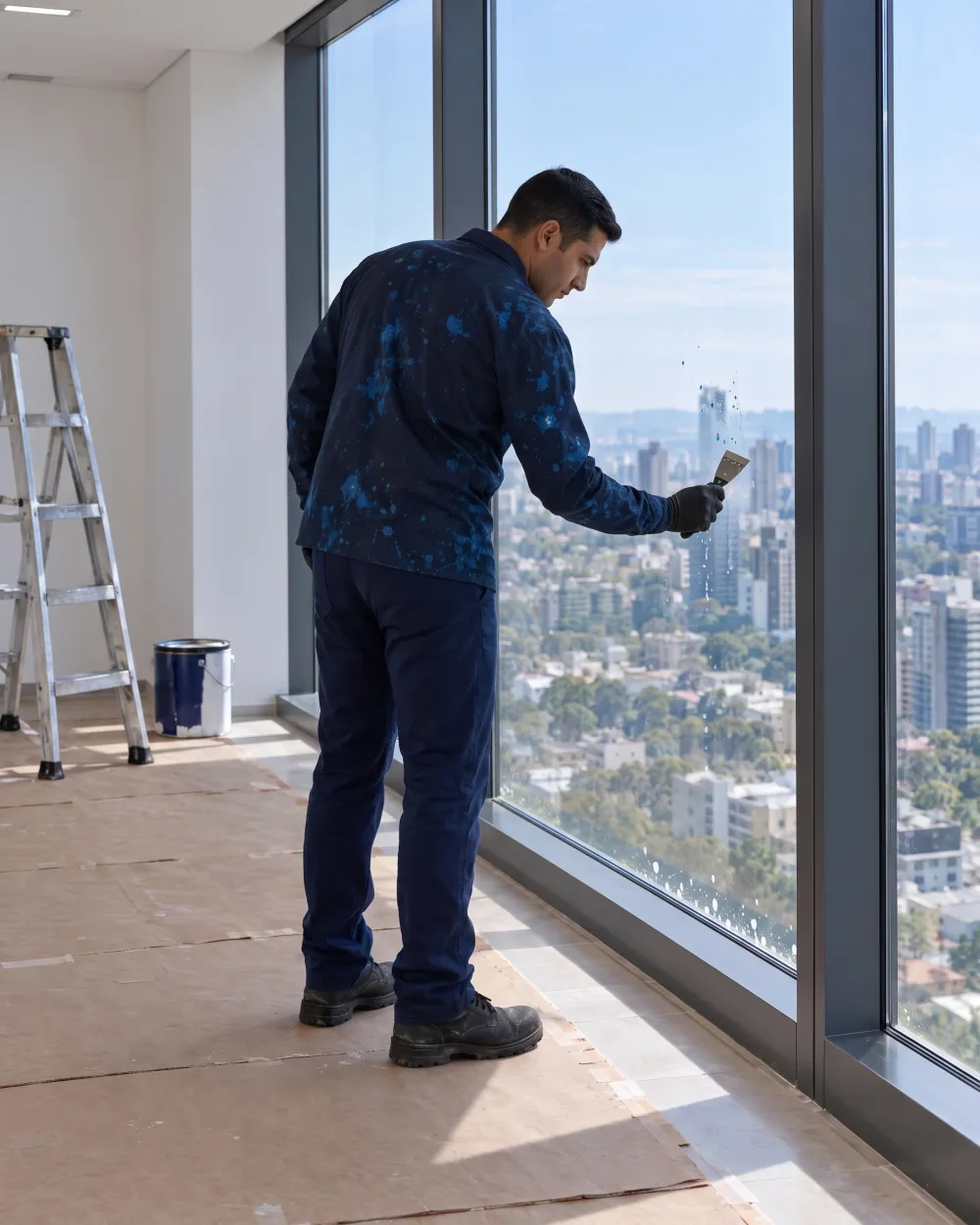
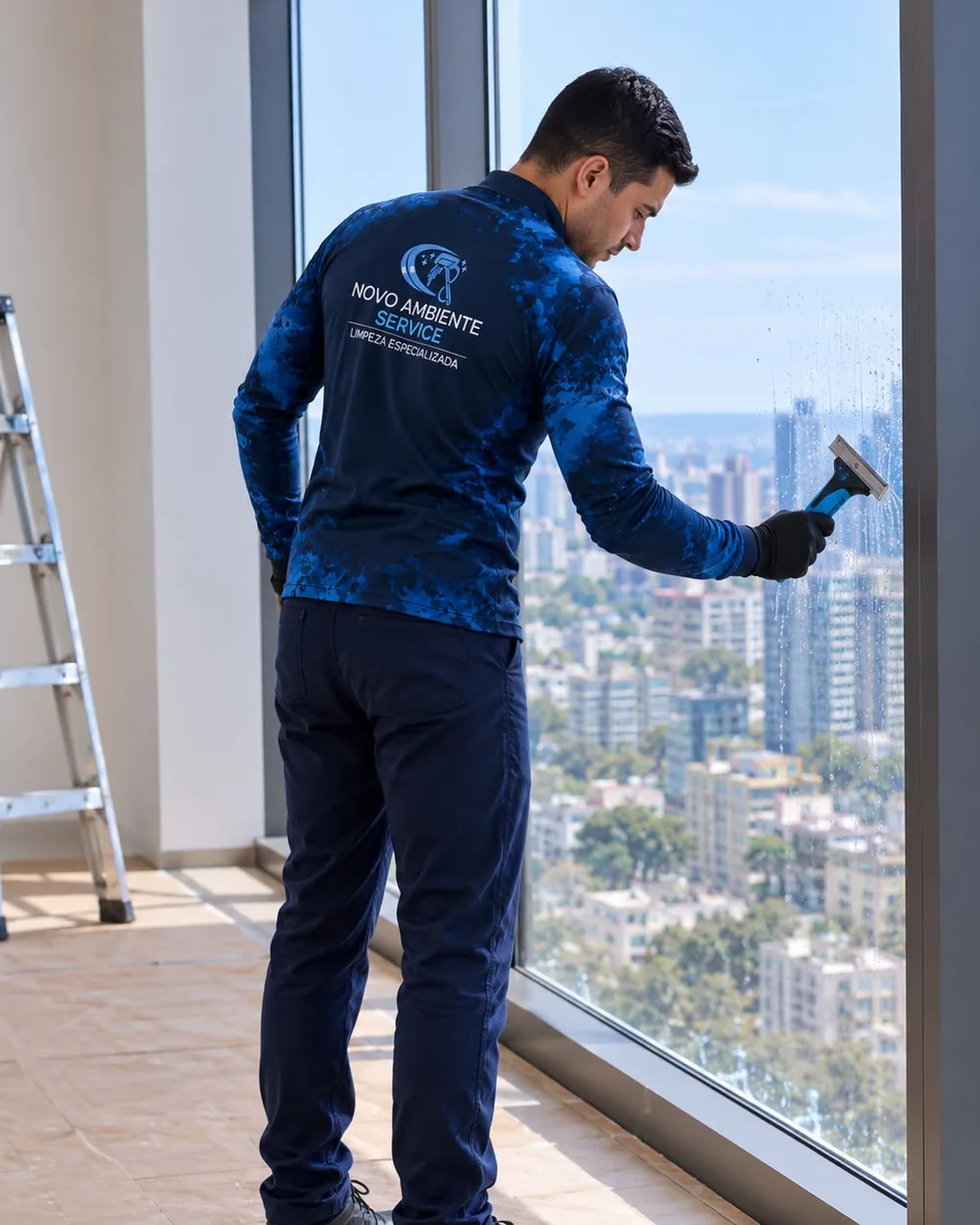
Novo Ambiente: retorno de 27/11 (menu no celular, recortes com a ferramenta, pos-obra nova)

diff --git a/public/novo-ambiente/site/limpeza-de-vidros/index.html b/public/novo-ambiente/site/limpeza-de-vidros/index.html
@@ -71,7 +71,18 @@
       <a href="../limpeza-de-vidros/" aria-current="page">Vidros</a><a href="../limpeza-de-fachada-acm/">Fachada</a><a href="../limpeza-de-placa-solar/">Placa solar</a><a href="../limpeza-de-piso/">Piso</a><a href="../contato/">Contato</a>
     </nav>
     <a class="botao botao-topo" href="https://wa.me/5541997799646?text=Ol%C3%A1!%20Vim%20pelo%20site%20da%20Novo%20Ambiente%20e%20quero%20um%20or%C3%A7amento." target="_blank" rel="noopener">Orçamento<svg aria-hidden="true"><use href="#i-seta"/></svg></a>
+    <button class="menu-botao" type="button" aria-expanded="false" aria-controls="menu-celular"><svg aria-hidden="true" viewBox="0 0 24 24"><path class="mb-1" d="M4 7h16"/><path class="mb-2" d="M4 12h16"/><path class="mb-3" d="M4 17h16"/></svg><span>Menu</span></button>
   </div>
+  <nav class="menu-celular" id="menu-celular" aria-label="Páginas do site" hidden>
+    <ul>
+      <li><a href="../">Início<svg aria-hidden="true"><use href="#i-seta"/></svg></a></li>
+      <li><a href="../limpeza-de-vidros/" aria-current="page">Limpeza de vidros<svg aria-hidden="true"><use href="#i-seta"/></svg></a></li>
+      <li><a href="../limpeza-de-fachada-acm/">Limpeza de fachada<svg aria-hidden="true"><use href="#i-seta"/></svg></a></li>
+      <li><a href="../limpeza-de-placa-solar/">Limpeza de placa solar<svg aria-hidden="true"><use href="#i-seta"/></svg></a></li>
+      <li><a href="../limpeza-de-piso/">Limpeza de piso<svg aria-hidden="true"><use href="#i-seta"/></svg></a></li>
+      <li><a href="../contato/">Contato<svg aria-hidden="true"><use href="#i-seta"/></svg></a></li>
+    </ul>
+  </nav>
 </header>
 <main id="conteudo">
 <section class="entrada" aria-labelledby="t-entrada" style="--pos: 45% 35%">
@@ -132,7 +143,7 @@
         </div>
       </li>
       <li class="b-cartao b-servico" style="--i: 1">
-        <figure><img src="../img/servico-fachada.webp" alt="Técnico de uniforme na calçada limpando com haste longa os vidros de um prédio comercial" width="1000" height="1250" loading="lazy" decoding="async" style="object-position: 50% 70%"></figure>
+        <figure><img src="../img/servico-fachada.webp" alt="Técnico de uniforme na calçada limpando com haste longa os vidros de um prédio comercial" width="1000" height="1250" loading="lazy" decoding="async" style="object-position: 50% 0%"></figure>
         <div class="b-servico-texto">
           <h3>Fachadas de vidro</h3>
           <p>Vidros de prédios, edifícios comerciais e condomínios, com limpeza interna e externa. Na pele de vidro, painel por painel, sem marca de rodo.</p>
@@ -141,7 +152,7 @@
         </div>
       </li>
       <li class="b-cartao b-servico" style="--i: 2">
-        <figure><img src="../img/servico-vitrine.webp" alt="Técnico de uniforme numa escada limpando o vidro alto da fachada de uma loja" width="1000" height="1250" loading="lazy" decoding="async" style="object-position: 50% 50%"></figure>
+        <figure><img src="../img/servico-vitrine.webp" alt="Técnico de uniforme numa escada limpando o vidro alto da fachada de uma loja" width="1000" height="1250" loading="lazy" decoding="async" style="object-position: 50% 0%"></figure>
         <div class="b-servico-texto">
           <h3>Vitrines, lojas, clínicas e escritórios</h3>
           <p>Vitrine sem marca de dedo e porta de vidro limpa, no dia e no horário que não atrapalham o atendimento.</p>
@@ -150,7 +161,7 @@
         </div>
       </li>
       <li class="b-cartao b-servico" style="--i: 3">
-        <figure><img src="../img/servico-sacada.webp" alt="Técnico de uniforme limpando com haste o vidro alto de uma sala com pé-direito alto" width="1000" height="1250" loading="lazy" decoding="async" style="object-position: 50% 50%"></figure>
+        <figure><img src="../img/servico-sacada.webp" alt="Técnico de uniforme limpando com haste o vidro alto de uma sala com pé-direito alto" width="1000" height="1250" loading="lazy" decoding="async" style="object-position: 50% 0%"></figure>
         <div class="b-servico-texto">
           <h3>Casas, apartamentos e sacadas</h3>
           <p>Janela alta, vidro de sacada e guarda-corpo transparentes de novo, sem ninguém da família subir em escada.</p>
@@ -159,7 +170,7 @@
         </div>
       </li>
       <li class="b-cartao b-servico" style="--i: 4">
-        <figure><img src="../img/servico-posobra.webp" alt="Técnico com raspador tirando respingos de tinta do vidro de uma sala comercial recém-terminada" width="1000" height="1250" loading="lazy" decoding="async" style="object-position: 55% 40%"></figure>
+        <figure><img src="../img/servico-posobra.webp" alt="Técnico de uniforme com raspador tirando resto de obra do vidro de uma sala com vista para a cidade" width="1000" height="1250" loading="lazy" decoding="async" style="object-position: 50% 30%"></figure>
         <div class="b-servico-texto">
           <h3>Pós-obra de vidros</h3>
           <p>Resto de tinta, cimento e poeira saem do vidro novo antes da entrega, com cuidado para não riscar.</p>

diff --git a/public/novo-ambiente/site/index.html b/public/novo-ambiente/site/index.html
@@ -69,7 +69,18 @@
       <a href="limpeza-de-vidros/">Vidros</a><a href="limpeza-de-fachada-acm/">Fachada</a><a href="limpeza-de-placa-solar/">Placa solar</a><a href="limpeza-de-piso/">Piso</a><a href="contato/">Contato</a>
     </nav>
     <a class="botao botao-topo" href="https://wa.me/5541997799646?text=Ol%C3%A1!%20Vim%20pelo%20site%20da%20Novo%20Ambiente%20e%20quero%20um%20or%C3%A7amento." target="_blank" rel="noopener">Orçamento<svg aria-hidden="true"><use href="#i-seta"/></svg></a>
+    <button class="menu-botao" type="button" aria-expanded="false" aria-controls="menu-celular"><svg aria-hidden="true" viewBox="0 0 24 24"><path class="mb-1" d="M4 7h16"/><path class="mb-2" d="M4 12h16"/><path class="mb-3" d="M4 17h16"/></svg><span>Menu</span></button>
   </div>
+  <nav class="menu-celular" id="menu-celular" aria-label="Páginas do site" hidden>
+    <ul>
+      <li><a href="./" aria-current="page">Início<svg aria-hidden="true"><use href="#i-seta"/></svg></a></li>
+      <li><a href="limpeza-de-vidros/">Limpeza de vidros<svg aria-hidden="true"><use href="#i-seta"/></svg></a></li>
+      <li><a href="limpeza-de-fachada-acm/">Limpeza de fachada<svg aria-hidden="true"><use href="#i-seta"/></svg></a></li>
+      <li><a href="limpeza-de-placa-solar/">Limpeza de placa solar<svg aria-hidden="true"><use href="#i-seta"/></svg></a></li>
+      <li><a href="limpeza-de-piso/">Limpeza de piso<svg aria-hidden="true"><use href="#i-seta"/></svg></a></li>
+      <li><a href="contato/">Contato<svg aria-hidden="true"><use href="#i-seta"/></svg></a></li>
+    </ul>
+  </nav>
 </header>
 <main id="conteudo">
 <section class="entrada" aria-labelledby="t-entrada" style="--pos: 45% 30%">
@@ -157,7 +168,7 @@
         </div>
       </li>
       <li class="b-cartao b-servico" style="--i: 1">
-        <figure><img src="img/servico-fachada.webp" alt="Técnico de uniforme na calçada limpando com haste longa os vidros de um prédio comercial" width="1000" height="1250" loading="lazy" decoding="async" style="object-position: 50% 70%"></figure>
+        <figure><img src="img/servico-fachada.webp" alt="Técnico de uniforme na calçada limpando com haste longa os vidros de um prédio comercial" width="1000" height="1250" loading="lazy" decoding="async" style="object-position: 50% 0%"></figure>
         <div class="b-servico-texto">
           <h3>Fachadas de vidro</h3>
           <p>Vidros de prédios, edifícios comerciais e condomínios, com limpeza interna e externa, painel a painel.</p>
@@ -166,7 +177,7 @@
         </div>
       </li>
       <li class="b-cartao b-servico" style="--i: 2">
-        <figure><img src="img/servico-vitrine.webp" alt="Técnico de uniforme numa escada limpando o vidro alto da fachada de uma loja" width="1000" height="1250" loading="lazy" decoding="async" style="object-position: 50% 50%"></figure>
+        <figure><img src="img/servico-vitrine.webp" alt="Técnico de uniforme numa escada limpando o vidro alto da fachada de uma loja" width="1000" height="1250" loading="lazy" decoding="async" style="object-position: 50% 0%"></figure>
         <div class="b-servico-texto">
           <h3>Vitrines, lojas, clínicas e escritórios</h3>
           <p>Vitrine sem marca de dedo, no dia e no horário que não atrapalham o atendimento.</p>
@@ -175,7 +186,7 @@
         </div>
       </li>
       <li class="b-cartao b-servico" style="--i: 3">
-        <figure><img src="img/servico-sacada.webp" alt="Técnico de uniforme limpando com haste o vidro alto de uma sala com pé-direito alto" width="1000" height="1250" loading="lazy" decoding="async" style="object-position: 50% 50%"></figure>
+        <figure><img src="img/servico-sacada.webp" alt="Técnico de uniforme limpando com haste o vidro alto de uma sala com pé-direito alto" width="1000" height="1250" loading="lazy" decoding="async" style="object-position: 50% 0%"></figure>
         <div class="b-servico-texto">
           <h3>Casas e sacadas</h3>
           <p>Vidro alto e de sacada transparente de novo, sem ninguém da família subir em escada.</p>
@@ -184,7 +195,7 @@
         </div>
       </li>
       <li class="b-cartao b-servico" style="--i: 4">
-        <figure><img src="img/servico-posobra.webp" alt="Técnico com raspador tirando respingos de tinta do vidro de uma sala comercial recém-terminada" width="1000" height="1250" loading="lazy" decoding="async" style="object-position: 55% 40%"></figure>
+        <figure><img src="img/servico-posobra.webp" alt="Técnico de uniforme com raspador tirando resto de obra do vidro de uma sala com vista para a cidade" width="1000" height="1250" loading="lazy" decoding="async" style="object-position: 50% 30%"></figure>
         <div class="b-servico-texto">
           <h3>Pós-obra de vidros</h3>
           <p>Resto de tinta, cimento e poeira de obra saem do vidro novo, com cuidado para não riscar.</p>

diff --git a/public/novo-ambiente/site/site/servico.css b/public/novo-ambiente/site/site/servico.css
@@ -206,3 +206,46 @@
 .eb .b-cartao .b-bolinha:not(.b-bolinha-grande) { display: block; width: fit-content; height: auto; margin-bottom: 0; border-radius: 0; background: none; box-shadow: none; color: var(--destaque); }
 .eb .b-cartao .b-bolinha:not(.b-bolinha-grande) .ico { width: 2.75rem; height: 2.75rem; }
 .sv .b-tambem .b-cartao-link .b-bolinha .ico { width: 2.25rem; height: 2.25rem; }
+
+/* 27/11, pedido do Lucas: nos cartões a ferramenta ficava fora do recorte (4:3 numa foto em pé mostrava 60% dela).
+   Quadrado mostra 80% da foto, e o object-position de cada uma (paginas.mjs e conteudo.mjs) puxa pra onde está o rodo,
+   a haste ou o raspador. O cartão grande do computador continua com a altura do texto */
+.b-servico img:not(.largo) { aspect-ratio: 1; }
+@media (min-width: 62rem) { .b-servico-grande img:not(.largo) { aspect-ratio: auto; } }
+
+/* ---------- 27/11, pedido dela: menu no celular ----------
+   Abaixo de 62rem os links do topo somem; no lugar entra o botão "Menu", que abre a lista das páginas logo
+   abaixo do topo. Abaixo de 48rem o "Orçamento" do topo sai: lá a barra fixa do WhatsApp já faz esse papel e
+   não cabem logo, Orçamento e Menu lado a lado. Sem script o botão não aparece (o rodapé tem os links) */
+.menu-botao, .topo .menu-celular { display: none; } /* .topo nav vira flex no computador: aqui precisa ganhar dele */
+@media (max-width: 61.99rem) {
+  .js .menu-botao { display: inline-flex; align-items: center; gap: .5rem; min-height: 2.75rem; padding: .5rem 1rem; border: 0; border-radius: 8px; background: rgba(8, 25, 42, .55); color: inherit; box-shadow: inset 0 0 0 1px currentColor; font: 500 .8125rem/1 var(--sans); letter-spacing: .05em; text-transform: uppercase; cursor: pointer; }
+  .menu-botao svg { width: 1.25rem; height: 1.25rem; fill: none; stroke: currentColor; stroke-width: 1.6; stroke-linecap: round; overflow: visible; }
+  .menu-botao path { transition: transform .3s var(--sai), opacity .2s var(--sai); transform-origin: 12px 12px; }
+  .menu-botao[aria-expanded="true"] .mb-1 { transform: translateY(5px) rotate(45deg); }
+  .menu-botao[aria-expanded="true"] .mb-2 { opacity: 0; }
+  .menu-botao[aria-expanded="true"] .mb-3 { transform: translateY(-5px) rotate(-45deg); }
+  .topo .wrap { gap: .5rem; }
+  .topo .botao-topo { margin-left: auto; }
+  .topo.solido .menu-botao, .topo.menu-aberto .menu-botao { background: transparent; box-shadow: inset 0 0 0 1px var(--marinho); }
+
+  .js .topo .menu-celular:not([hidden]) { display: block; position: absolute; inset: 100% 0 auto; max-height: calc(100svh - 4.75rem); overflow-y: auto; background: var(--off); color: var(--marinho);
+    box-shadow: 0 0 0 100vmax rgba(2, 11, 20, .45); clip-path: inset(0 0 -100vmax 0); animation: menu-desce .35s var(--sai); }
+  .menu-celular ul { width: min(100% - 2.5rem, 40rem); margin-inline: auto; padding: .5rem 0 1.25rem; list-style: none; }
+  .menu-celular li + li { border-top: 1px solid var(--linha); }
+  .menu-celular a { display: flex; align-items: center; justify-content: space-between; gap: 1rem; min-height: 3.5rem; padding-block: 0; background: none; font: 400 1.375rem/1.2 var(--serif); letter-spacing: -.005em; text-decoration: none; }
+  .menu-celular a svg { flex: none; width: 1rem; height: 1rem; color: var(--botao); }
+  .menu-celular a[aria-current="page"] { color: var(--botao); }
+  .menu-celular a[aria-current="page"]::after { content: "você está aqui"; margin-left: auto; font: 500 .75rem/1 var(--sans); letter-spacing: .05em; text-transform: uppercase; color: var(--texto-2); }
+  .menu-celular a[aria-current="page"] svg { display: none; }
+
+  /* menu aberto: o topo fica sólido e a logo já no tamanho pequeno, mesmo no alto da página */
+  .topo.menu-aberto { background: var(--off); color: var(--marinho); box-shadow: 0 1px 0 var(--linha); }
+  .topo.menu-aberto .logo-clara { opacity: 0; }
+  .topo.menu-aberto .logo-escura { opacity: 1; }
+  .js .topo.menu-aberto .marca-logo { height: var(--logo-menu); transform: none !important; }
+  .topo.menu-aberto .botao-topo:not(:hover) { background: var(--marinho); color: var(--off); box-shadow: none; }
+}
+@media (max-width: 47.99rem) { .topo .botao-topo { display: none; } .js .menu-botao { margin-left: auto; } }
+@keyframes menu-desce { from { opacity: 0; transform: translateY(-.5rem); } }
+@media (prefers-reduced-motion: reduce) { .menu-celular { animation: none !important; } .menu-botao path { transition: none; } }

diff --git a/public/novo-ambiente/site/site.css b/public/novo-ambiente/site/site.css
@@ -761,3 +761,34 @@ linear-gradient(0deg, rgba(8, 25, 42, .95) 0%, rgba(8, 25, 42, .78) 40%, rgba(8,
 .eb .b-cartao .b-bolinha:not(.b-bolinha-grande) { display: block; width: fit-content; height: auto; margin-bottom: 0; border-radius: 0; background: none; box-shadow: none; color: var(--destaque); }
 .eb .b-cartao .b-bolinha:not(.b-bolinha-grande) .ico { width: 2.75rem; height: 2.75rem; }
 .sv .b-tambem .b-cartao-link .b-bolinha .ico { width: 2.25rem; height: 2.25rem; }
+.b-servico img:not(.largo) { aspect-ratio: 1; }
+@media (min-width: 62rem) { .b-servico-grande img:not(.largo) { aspect-ratio: auto; } }
+.menu-botao, .topo .menu-celular { display: none; } 
+@media (max-width: 61.99rem) {
+.js .menu-botao { display: inline-flex; align-items: center; gap: .5rem; min-height: 2.75rem; padding: .5rem 1rem; border: 0; border-radius: 8px; background: rgba(8, 25, 42, .55); color: inherit; box-shadow: inset 0 0 0 1px currentColor; font: 500 .8125rem/1 var(--sans); letter-spacing: .05em; text-transform: uppercase; cursor: pointer; }
+.menu-botao svg { width: 1.25rem; height: 1.25rem; fill: none; stroke: currentColor; stroke-width: 1.6; stroke-linecap: round; overflow: visible; }
+.menu-botao path { transition: transform .3s var(--sai), opacity .2s var(--sai); transform-origin: 12px 12px; }
+.menu-botao[aria-expanded="true"] .mb-1 { transform: translateY(5px) rotate(45deg); }
+.menu-botao[aria-expanded="true"] .mb-2 { opacity: 0; }
+.menu-botao[aria-expanded="true"] .mb-3 { transform: translateY(-5px) rotate(-45deg); }
+.topo .wrap { gap: .5rem; }
+.topo .botao-topo { margin-left: auto; }
+.topo.solido .menu-botao, .topo.menu-aberto .menu-botao { background: transparent; box-shadow: inset 0 0 0 1px var(--marinho); }
+.js .topo .menu-celular:not([hidden]) { display: block; position: absolute; inset: 100% 0 auto; max-height: calc(100svh - 4.75rem); overflow-y: auto; background: var(--off); color: var(--marinho);
+box-shadow: 0 0 0 100vmax rgba(2, 11, 20, .45); clip-path: inset(0 0 -100vmax 0); animation: menu-desce .35s var(--sai); }
+.menu-celular ul { width: min(100% - 2.5rem, 40rem); margin-inline: auto; padding: .5rem 0 1.25rem; list-style: none; }
+.menu-celular li + li { border-top: 1px solid var(--linha); }
+.menu-celular a { display: flex; align-items: center; justify-content: space-between; gap: 1rem; min-height: 3.5rem; padding-block: 0; background: none; font: 400 1.375rem/1.2 var(--serif); letter-spacing: -.005em; text-decoration: none; }
+.menu-celular a svg { flex: none; width: 1rem; height: 1rem; color: var(--botao); }
+.menu-celular a[aria-current="page"] { color: var(--botao); }
+.menu-celular a[aria-current="page"]::after { content: "você está aqui"; margin-left: auto; font: 500 .75rem/1 var(--sans); letter-spacing: .05em; text-transform: uppercase; color: var(--texto-2); }
+.menu-celular a[aria-current="page"] svg { display: none; }
+.topo.menu-aberto { background: var(--off); color: var(--marinho); box-shadow: 0 1px 0 var(--linha); }
+.topo.menu-aberto .logo-clara { opacity: 0; }
+.topo.menu-aberto .logo-escura { opacity: 1; }
+.js .topo.menu-aberto .marca-logo { height: var(--logo-menu); transform: none !important; }
+.topo.menu-aberto .botao-topo:not(:hover) { background: var(--marinho); color: var(--off); box-shadow: none; }
+}
+@media (max-width: 47.99rem) { .topo .botao-topo { display: none; } .js .menu-botao { margin-left: auto; } }
+@keyframes menu-desce { from { opacity: 0; transform: translateY(-.5rem); } }
+@media (prefers-reduced-motion: reduce) { .menu-celular { animation: none !important; } .menu-botao path { transition: none; } }

diff --git a/public/novo-ambiente/site/limpeza-de-fachada-acm/index.html b/public/novo-ambiente/site/limpeza-de-fachada-acm/index.html
@@ -71,7 +71,18 @@
       <a href="../limpeza-de-vidros/">Vidros</a><a href="../limpeza-de-fachada-acm/" aria-current="page">Fachada</a><a href="../limpeza-de-placa-solar/">Placa solar</a><a href="../limpeza-de-piso/">Piso</a><a href="../contato/">Contato</a>
     </nav>
     <a class="botao botao-topo" href="https://wa.me/5541997799646?text=Ol%C3%A1!%20Vim%20pelo%20site%20da%20Novo%20Ambiente%20e%20quero%20um%20or%C3%A7amento." target="_blank" rel="noopener">Orçamento<svg aria-hidden="true"><use href="#i-seta"/></svg></a>
+    <button class="menu-botao" type="button" aria-expanded="false" aria-controls="menu-celular"><svg aria-hidden="true" viewBox="0 0 24 24"><path class="mb-1" d="M4 7h16"/><path class="mb-2" d="M4 12h16"/><path class="mb-3" d="M4 17h16"/></svg><span>Menu</span></button>
   </div>
+  <nav class="menu-celular" id="menu-celular" aria-label="Páginas do site" hidden>
+    <ul>
+      <li><a href="../">Início<svg aria-hidden="true"><use href="#i-seta"/></svg></a></li>
+      <li><a href="../limpeza-de-vidros/">Limpeza de vidros<svg aria-hidden="true"><use href="#i-seta"/></svg></a></li>
+      <li><a href="../limpeza-de-fachada-acm/" aria-current="page">Limpeza de fachada<svg aria-hidden="true"><use href="#i-seta"/></svg></a></li>
+      <li><a href="../limpeza-de-placa-solar/">Limpeza de placa solar<svg aria-hidden="true"><use href="#i-seta"/></svg></a></li>
+      <li><a href="../limpeza-de-piso/">Limpeza de piso<svg aria-hidden="true"><use href="#i-seta"/></svg></a></li>
+      <li><a href="../contato/">Contato<svg aria-hidden="true"><use href="#i-seta"/></svg></a></li>
+    </ul>
+  </nav>
 </header>
 <main id="conteudo">
 <section class="entrada" aria-labelledby="t-entrada" style="--pos: 50% 40%">
@@ -128,7 +139,7 @@
       <li class="b-cartao" style="--i: 3"><span class="b-bolinha"><svg class="ico" aria-hidden="true"><use href="#i-pedra"/></svg></span><h3>Pedra e granito</h3><p>Revestimento de pedra de fachada e de entrada de prédio.</p></li>
     </ul>
     <div class="b-cartao b-servico b-servico-grande sv-completa">
-      <figure><img src="../img/servico-fachada-casa.webp" alt="Técnico de uniforme lavando com haste e jato a fachada de uma casa, ao lado do portão da garagem" width="1000" height="1250" loading="lazy" decoding="async" style="object-position: 50% 45%"></figure>
+      <figure><img src="../img/servico-fachada-casa.webp" alt="Técnico de uniforme lavando com haste e jato a fachada de uma casa, ao lado do portão da garagem" width="1000" height="1250" loading="lazy" decoding="async" style="object-position: 50% 30%"></figure>
       <div class="b-servico-texto">
         <h3>A fachada inteira, não só a parede</h3>
         <p>Quando é preciso, lavamos a fachada completa: além do revestimento, o muro, a grade, o portão, os rufos, as calhas e o telhado. A casa ou o prédio fica limpo por inteiro, e não só a parte de alvenaria.</p>

diff --git a/public/novo-ambiente/site/limpeza-de-piso/index.html b/public/novo-ambiente/site/limpeza-de-piso/index.html
@@ -71,7 +71,18 @@
       <a href="../limpeza-de-vidros/">Vidros</a><a href="../limpeza-de-fachada-acm/">Fachada</a><a href="../limpeza-de-placa-solar/">Placa solar</a><a href="../limpeza-de-piso/" aria-current="page">Piso</a><a href="../contato/">Contato</a>
     </nav>
     <a class="botao botao-topo" href="https://wa.me/5541997799646?text=Ol%C3%A1!%20Vim%20pelo%20site%20da%20Novo%20Ambiente%20e%20quero%20um%20or%C3%A7amento." target="_blank" rel="noopener">Orçamento<svg aria-hidden="true"><use href="#i-seta"/></svg></a>
+    <button class="menu-botao" type="button" aria-expanded="false" aria-controls="menu-celular"><svg aria-hidden="true" viewBox="0 0 24 24"><path class="mb-1" d="M4 7h16"/><path class="mb-2" d="M4 12h16"/><path class="mb-3" d="M4 17h16"/></svg><span>Menu</span></button>
   </div>
+  <nav class="menu-celular" id="menu-celular" aria-label="Páginas do site" hidden>
+    <ul>
+      <li><a href="../">Início<svg aria-hidden="true"><use href="#i-seta"/></svg></a></li>
+      <li><a href="../limpeza-de-vidros/">Limpeza de vidros<svg aria-hidden="true"><use href="#i-seta"/></svg></a></li>
+      <li><a href="../limpeza-de-fachada-acm/">Limpeza de fachada<svg aria-hidden="true"><use href="#i-seta"/></svg></a></li>
+      <li><a href="../limpeza-de-placa-solar/">Limpeza de placa solar<svg aria-hidden="true"><use href="#i-seta"/></svg></a></li>
+      <li><a href="../limpeza-de-piso/" aria-current="page">Limpeza de piso<svg aria-hidden="true"><use href="#i-seta"/></svg></a></li>
+      <li><a href="../contato/">Contato<svg aria-hidden="true"><use href="#i-seta"/></svg></a></li>
+    </ul>
+  </nav>
 </header>
 <main id="conteudo">
 <section class="entrada" aria-labelledby="t-entrada" style="--pos: 50% 50%">

diff --git a/public/novo-ambiente/site/limpeza-de-placa-solar/index.html b/public/novo-ambiente/site/limpeza-de-placa-solar/index.html
@@ -71,7 +71,18 @@
       <a href="../limpeza-de-vidros/">Vidros</a><a href="../limpeza-de-fachada-acm/">Fachada</a><a href="../limpeza-de-placa-solar/" aria-current="page">Placa solar</a><a href="../limpeza-de-piso/">Piso</a><a href="../contato/">Contato</a>
     </nav>
     <a class="botao botao-topo" href="https://wa.me/5541997799646?text=Ol%C3%A1!%20Vim%20pelo%20site%20da%20Novo%20Ambiente%20e%20quero%20um%20or%C3%A7amento." target="_blank" rel="noopener">Orçamento<svg aria-hidden="true"><use href="#i-seta"/></svg></a>
+    <button class="menu-botao" type="button" aria-expanded="false" aria-controls="menu-celular"><svg aria-hidden="true" viewBox="0 0 24 24"><path class="mb-1" d="M4 7h16"/><path class="mb-2" d="M4 12h16"/><path class="mb-3" d="M4 17h16"/></svg><span>Menu</span></button>
   </div>
+  <nav class="menu-celular" id="menu-celular" aria-label="Páginas do site" hidden>
+    <ul>
+      <li><a href="../">Início<svg aria-hidden="true"><use href="#i-seta"/></svg></a></li>
+      <li><a href="../limpeza-de-vidros/">Limpeza de vidros<svg aria-hidden="true"><use href="#i-seta"/></svg></a></li>
+      <li><a href="../limpeza-de-fachada-acm/">Limpeza de fachada<svg aria-hidden="true"><use href="#i-seta"/></svg></a></li>
+      <li><a href="../limpeza-de-placa-solar/" aria-current="page">Limpeza de placa solar<svg aria-hidden="true"><use href="#i-seta"/></svg></a></li>
+      <li><a href="../limpeza-de-piso/">Limpeza de piso<svg aria-hidden="true"><use href="#i-seta"/></svg></a></li>
+      <li><a href="../contato/">Contato<svg aria-hidden="true"><use href="#i-seta"/></svg></a></li>
+    </ul>
+  </nav>
 </header>
 <main id="conteudo">
 <section class="entrada" aria-labelledby="t-entrada" style="--pos: 12% 50%">

diff --git a/public/novo-ambiente/site/contato/index.html b/public/novo-ambiente/site/contato/index.html
@@ -69,7 +69,18 @@
       <a href="../limpeza-de-vidros/">Vidros</a><a href="../limpeza-de-fachada-acm/">Fachada</a><a href="../limpeza-de-placa-solar/">Placa solar</a><a href="../limpeza-de-piso/">Piso</a><a href="../contato/" aria-current="page">Contato</a>
     </nav>
     <a class="botao botao-topo" href="https://wa.me/5541997799646?text=Ol%C3%A1!%20Vim%20pelo%20site%20da%20Novo%20Ambiente%20e%20quero%20um%20or%C3%A7amento." target="_blank" rel="noopener">Orçamento<svg aria-hidden="true"><use href="#i-seta"/></svg></a>
+    <button class="menu-botao" type="button" aria-expanded="false" aria-controls="menu-celular"><svg aria-hidden="true" viewBox="0 0 24 24"><path class="mb-1" d="M4 7h16"/><path class="mb-2" d="M4 12h16"/><path class="mb-3" d="M4 17h16"/></svg><span>Menu</span></button>
   </div>
+  <nav class="menu-celular" id="menu-celular" aria-label="Páginas do site" hidden>
+    <ul>
+      <li><a href="../">Início<svg aria-hidden="true"><use href="#i-seta"/></svg></a></li>
+      <li><a href="../limpeza-de-vidros/">Limpeza de vidros<svg aria-hidden="true"><use href="#i-seta"/></svg></a></li>
+      <li><a href="../limpeza-de-fachada-acm/">Limpeza de fachada<svg aria-hidden="true"><use href="#i-seta"/></svg></a></li>
+      <li><a href="../limpeza-de-placa-solar/">Limpeza de placa solar<svg aria-hidden="true"><use href="#i-seta"/></svg></a></li>
+      <li><a href="../limpeza-de-piso/">Limpeza de piso<svg aria-hidden="true"><use href="#i-seta"/></svg></a></li>
+      <li><a href="../contato/" aria-current="page">Contato<svg aria-hidden="true"><use href="#i-seta"/></svg></a></li>
+    </ul>
+  </nav>
 </header>
 <main id="conteudo">
 <section class="entrada" aria-labelledby="t-entrada">

diff --git a/public/novo-ambiente/site/script.js b/public/novo-ambiente/site/script.js
@@ -85,3 +85,27 @@
     document.querySelectorAll('[data-esconde-barra]').forEach(function (a) { ob.observe(a); });
   }
 })();
+
+/* 27/11: menu do celular. O botão "Menu" abre a lista das páginas; fecha no X, no Esc, tocando fora
+   ou quando a tela passa a ter o menu de computador */
+(function () {
+  var botao = document.querySelector('.menu-botao');
+  var lista = document.getElementById('menu-celular');
+  var topo = document.querySelector('.topo');
+  if (!botao || !lista || !topo) return;
+  function abrir(sim) {
+    botao.setAttribute('aria-expanded', sim ? 'true' : 'false');
+    botao.querySelector('span').textContent = sim ? 'Fechar' : 'Menu';
+    lista.hidden = !sim;
+    topo.classList.toggle('menu-aberto', sim);
+  }
+  botao.addEventListener('click', function () { abrir(lista.hidden); });
+  document.addEventListener('keydown', function (e) {
+    if (e.key === 'Escape' && !lista.hidden) { abrir(false); botao.focus(); }
+  });
+  document.addEventListener('click', function (e) {
+    if (!lista.hidden && !topo.contains(e.target)) abrir(false);
+  });
+  lista.addEventListener('click', function (e) { if (e.target.closest('a')) abrir(false); });
+  window.matchMedia('(min-width: 62rem)').addEventListener('change', function (m) { if (m.matches) abrir(false); });
+})();
